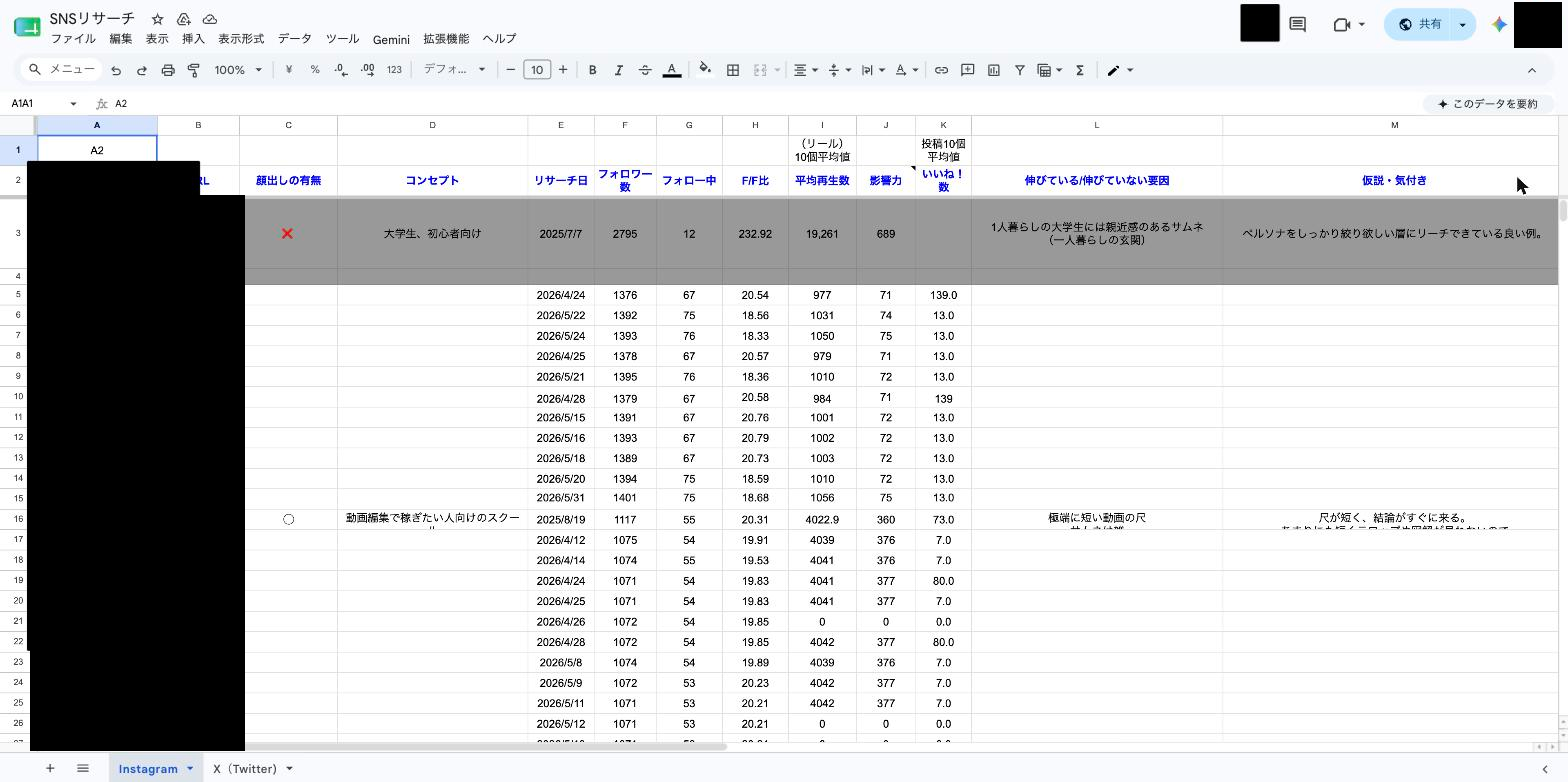
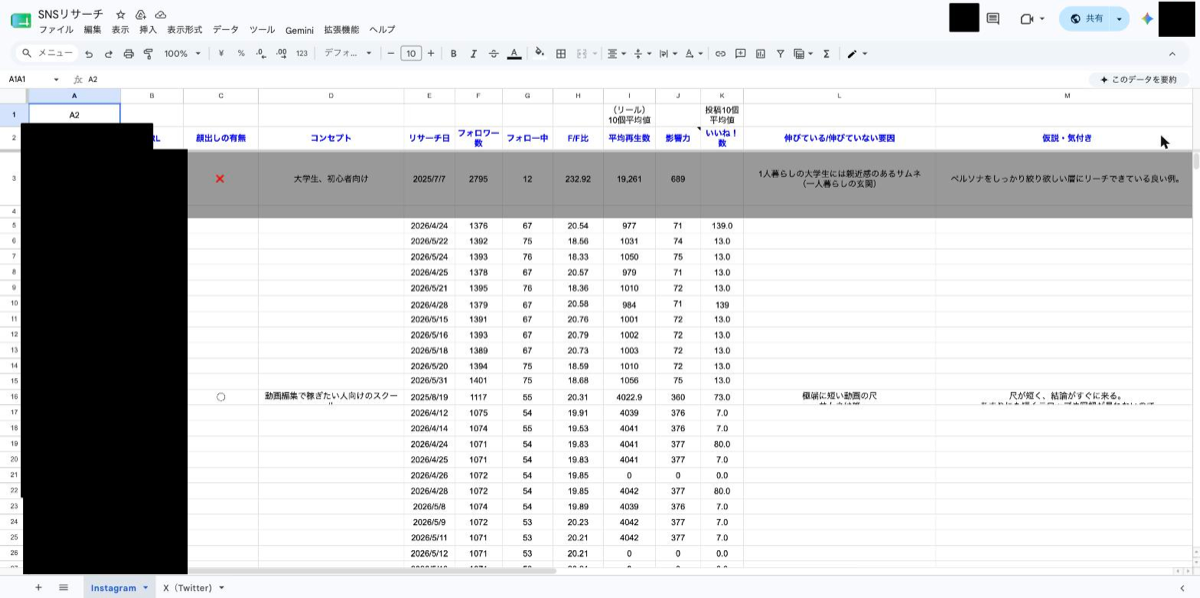
高度レビュー対応: CSP厳格化(XSS)・画像軽量化(perf)・JS可読性(単一責任+JSDoc型)
セキュリティ(XSS):
- CSPから'unsafe-inline'を除去。インラインscriptはSHA-256ハッシュ許可、style-srcは'self'のみに厳格化
- base-uri 'self' / form-action 'self' を追加（base注入・フォーム送信先を制限）
- 監査結果: フォーム無し(入力検証対象なし)・innerHTML不使用(textContentのみ)・全外部リンクにnoopener

パフォーマンス:
- 過大画像をリサイズ（puzzle 785→367KB 他、参照画像合計 2052→1493KB / -27%）
- 全img(16枚)に decoding=async を付与

可読性:
- main.jsを単一責任の名前付き関数(initFooterYear/initScrollFade)へ分割＋JSDoc型注釈（ビルド不要でTS相当の型補完を確保）
- JSキャッシュバスターを?v=20260621へ更新

Changed region(s): [[0.3392, 0.5418, 0.37, 0.5719], [0.3392, 0.4214, 0.37, 0.4515]]

diff --git a/js/main.js b/js/main.js
@@ -1,26 +1,47 @@
 /* =========================================================
-   翔啓 / Shokei — Portfolio interactions
+   大久保 翔啓 / Shokei — Portfolio interactions
+   ビルドなしの静的サイトのため、型は JSDoc で付与
+   （TypeScript 相当の補完・型チェックをエディタ上で得る）
    ========================================================= */
 (function () {
   "use strict";
 
-  /* Footer year */
-  var y = document.getElementById("year");
-  if (y) y.textContent = new Date().getFullYear();
+  /**
+   * フッターの著作権表記に現在の年を反映する。
+   * 対象要素（#year）が無ければ何もしない。
+   * @returns {void}
+   */
+  function initFooterYear() {
+    var el = document.getElementById("year");
+    if (el) el.textContent = String(new Date().getFullYear());
+  }
 
-  /* Fade-in on scroll */
-  var faders = document.querySelectorAll(".fade");
-  if ("IntersectionObserver" in window) {
-    var io = new IntersectionObserver(function (entries) {
+  /**
+   * スクロールに応じて `.fade` 要素を順次フェードインさせる。
+   * IntersectionObserver 非対応環境では全要素を即時表示にフォールバックする。
+   * @returns {void}
+   */
+  function initScrollFade() {
+    /** @type {NodeListOf<HTMLElement>} */
+    var faders = document.querySelectorAll(".fade");
+
+    // フォールバック：監視APIが無ければアニメーションせず即時表示
+    if (!("IntersectionObserver" in window)) {
+      faders.forEach(function (el) { el.classList.add("show"); });
+      return;
+    }
+
+    var observer = new IntersectionObserver(function (entries, obs) {
       entries.forEach(function (entry) {
-        if (entry.isIntersecting) {
-          entry.target.classList.add("show");
-          io.unobserve(entry.target);
-        }
+        if (!entry.isIntersecting) return;
+        entry.target.classList.add("show");
+        obs.unobserve(entry.target); // 一度表示したら監視解除（再発火を防ぐ）
       });
     }, { threshold: 0.12, rootMargin: "0px 0px -6% 0px" });
-    faders.forEach(function (el) { io.observe(el); });
-  } else {
-    faders.forEach(function (el) { el.classList.add("show"); });
+
+    faders.forEach(function (el) { observer.observe(el); });
   }
+
+  initFooterYear();
+  initScrollFade();
 })();

diff --git a/index.html b/index.html
@@ -5,7 +5,7 @@
   <meta name="viewport" content="width=device-width, initial-scale=1.0" />
   <title>大久保　翔啓 / Shokei — AI Development Portfolio</title>
   <meta name="description" content="AIといっしょに、めんどうな作業を「自動で動くしくみ」に変えています。データ分析・機械学習から運用自動化まで、実際に動く成果物をまとめた大久保翔啓のポートフォリオ。" />
-  <meta http-equiv="Content-Security-Policy" content="default-src 'self'; style-src 'self' 'unsafe-inline'; script-src 'self' 'unsafe-inline'; img-src 'self' data:; frame-ancestors 'none';" />
+  <meta http-equiv="Content-Security-Policy" content="default-src 'self'; style-src 'self'; script-src 'self' 'sha256-WZRJfWvsnNCPcxzZwvyhovnZGqhZaC+8gPGPRbx6wTk='; img-src 'self' data:; frame-ancestors 'none'; base-uri 'self'; form-action 'self';" />
   <meta name="robots" content="index, follow" />
   <meta name="theme-color" content="#fffaf4" />
 
@@ -46,16 +46,16 @@
   <!-- ===== HERO ===== -->
   <section id="top" class="hero-section">
     <div class="hero-bg" aria-hidden="true">
-      <div class="hero-tile t1"><img src="images/work-sns-sheet-real.png" alt="" width="400" height="300" /></div>
+      <div class="hero-tile t1"><img src="images/work-sns-sheet-real.png" alt="" width="400" height="300" decoding="async" /></div>
       <div class="hero-tile t2">📊</div>
-      <div class="hero-tile t3"><img src="images/work-titanic-score.png" alt="" width="400" height="300" /></div>
+      <div class="hero-tile t3"><img src="images/work-titanic-score.png" alt="" width="400" height="300" decoding="async" /></div>
       <div class="hero-tile t4">🤖</div>
-      <div class="hero-tile t5"><img src="images/work-shap.png" alt="" width="400" height="300" /></div>
+      <div class="hero-tile t5"><img src="images/work-shap.png" alt="" width="400" height="300" decoding="async" /></div>
       <div class="hero-tile t6">🔄</div>
       <div class="hero-tile t7">✨</div>
-      <div class="hero-tile t8"><img src="images/work-freee.png" alt="" width="400" height="300" /></div>
-      <div class="hero-tile t9"><img src="images/work-puzzle.png" alt="" width="400" height="300" /></div>
-      <div class="hero-tile t10"><img src="images/work-titanic-features.png" alt="" width="400" height="300" /></div>
+      <div class="hero-tile t8"><img src="images/work-freee.png" alt="" width="400" height="300" decoding="async" /></div>
+      <div class="hero-tile t9"><img src="images/work-puzzle.png" alt="" width="400" height="300" decoding="async" /></div>
+      <div class="hero-tile t10"><img src="images/work-titanic-features.png" alt="" width="400" height="300" decoding="async" /></div>
       <div class="hero-tile t11">⚙️</div>
       <div class="hero-tile t12">💡</div>
     </div>
@@ -107,7 +107,7 @@
     </div>
 
     <div class="feature-row fade">
-      <div class="feature-img fi1"><img src="images/work-sns-sheet-real.png" alt="競合リサーチを自動転記したスプレッドシート（アカウント名は黒塗り）" width="600" height="450" loading="lazy" /></div>
+      <div class="feature-img fi1"><img src="images/work-sns-sheet-real.png" alt="競合リサーチを自動転記したスプレッドシート（アカウント名は黒塗り）" width="600" height="450" decoding="async" loading="lazy" /></div>
       <div class="feature-text">
         <p class="num en">FEATURE 01</p>
         <h3>毎朝、競合リサーチを自動で</h3>
@@ -116,7 +116,7 @@
     </div>
 
     <div class="feature-row reverse fade">
-      <div class="feature-img fi2"><img src="images/work-shap.png" alt="動画の伸びを予測するAIのSHAP分析グラフ" width="600" height="450" loading="lazy" /></div>
+      <div class="feature-img fi2"><img src="images/work-shap.png" alt="動画の伸びを予測するAIのSHAP分析グラフ" width="600" height="450" decoding="async" loading="lazy" /></div>
       <div class="feature-text">
         <p class="num en">FEATURE 02</p>
         <h3>「伸びる動画」の条件を機械学習で分析</h3>
@@ -125,7 +125,7 @@
     </div>
 
     <div class="feature-row fade">
-      <div class="feature-img fi3"><img src="images/work-titanic-features.png" alt="タイタニック生存予測モデルの特徴量重要度と、性別・客室クラス別の生存率" width="600" height="450" loading="lazy" /></div>
+      <div class="feature-img fi3"><img src="images/work-titanic-features.png" alt="タイタニック生存予測モデルの特徴量重要度と、性別・客室クラス別の生存率" width="600" height="450" decoding="async" loading="lazy" /></div>
       <div class="feature-text">
         <p class="num en">FEATURE 03</p>
         <h3>機械学習の基礎を、手を動かして</h3>
@@ -134,7 +134,7 @@
     </div>
 
     <div class="feature-row reverse fade">
-      <div class="feature-img fi4"><img src="images/work-freee.png" alt="freee / MF会計と連携したAI仕訳自動化のデータフロー（個人情報はAIに送らない設計）" width="600" height="450" loading="lazy" /></div>
+      <div class="feature-img fi4"><img src="images/work-freee.png" alt="freee / MF会計と連携したAI仕訳自動化のデータフロー（個人情報はAIに送らない設計）" width="600" height="450" decoding="async" loading="lazy" /></div>
       <div class="feature-text">
         <p class="num en">FEATURE 04</p>
         <h3>会計freeeと連携、AIで仕訳を自動化</h3>
@@ -151,42 +151,42 @@
     </div>
     <div class="works-grid">
       <div class="work-card fade">
-        <img src="images/work-sns-sheet-real.png" alt="Instagram競合リサーチ自動化" width="400" height="400" loading="lazy" />
+        <img src="images/work-sns-sheet-real.png" alt="Instagram競合リサーチ自動化" width="400" height="400" decoding="async" loading="lazy" />
         <div class="overlay">
           <h4>Instagramのライバル調べを自動化</h4>
           <p>毎朝10アカウントを自動収集・スコア化<br />→ スプレッドシートへ自動転記</p>
         </div>
       </div>
       <div class="work-card fade">
-        <img src="images/work-shap.png" alt="伸びる動画をAIで分析" width="400" height="400" loading="lazy" />
+        <img src="images/work-shap.png" alt="伸びる動画をAIで分析" width="400" height="400" decoding="async" loading="lazy" />
         <div class="overlay">
           <h4>「伸びる動画」を機械学習で分析</h4>
           <p>機械学習・SHAP / 動画編集の特徴量<br />テンポ・字幕・つかみ・明るさが効く</p>
         </div>
       </div>
       <div class="work-card fade">
-        <img src="images/work-titanic-features.png" alt="タイタニックの特徴量重要度と性別・客室クラス別の生存率" width="400" height="400" loading="lazy" />
+        <img src="images/work-titanic-features.png" alt="タイタニックの特徴量重要度と性別・客室クラス別の生存率" width="400" height="400" decoding="async" loading="lazy" />
         <div class="overlay">
           <h4>タイタニック:生存率の可視化</h4>
           <p>特徴量の重要度・EDA<br />性別・客室クラス別の生存率</p>
         </div>
       </div>
       <div class="work-card fade">
-        <img src="images/work-titanic-score.png" alt="AIで生き残りを予測（交差検証0.843・本番LB0.763）" width="400" height="400" loading="lazy" />
+        <img src="images/work-titanic-score.png" alt="AIで生き残りを予測（交差検証0.843・本番LB0.763）" width="400" height="400" decoding="async" loading="lazy" />
         <div class="overlay">
           <h4>AIで生き残りを予測</h4>
           <p>scikit-learn / ランダムフォレスト<br />交差検証0.843・本番LB0.763</p>
         </div>
       </div>
       <div class="work-card fade">
-        <img src="images/work-puzzle.png" alt="自作のぷよぷよ風パズルゲーム" width="400" height="400" loading="lazy" />
+        <img src="images/work-puzzle.png" alt="自作のぷよぷよ風パズルゲーム" width="400" height="400" decoding="async" loading="lazy" />
         <div class="overlay">
           <h4>ぷよぷよ風パズルゲーム</h4>
           <p>ブラウザで動くゲームを自作<br />連鎖・スコア・レベル・NEXT実装</p>
         </div>
       </div>
       <div class="work-card fade">
-        <img src="images/work-freee-sq.png" alt="freeeと連携したAI仕訳自動化システム" width="400" height="400" loading="lazy" />
+        <img src="images/work-freee-sq.png" alt="freeeと連携したAI仕訳自動化システム" width="400" height="400" decoding="async" loading="lazy" />
         <div class="overlay">
           <h4>会計freee連携・AI仕訳自動化</h4>
           <p>Claude APIで勘定科目を判定<br />個人情報を送らない安全設計</p>
@@ -235,6 +235,6 @@
     <p class="copy en">© <span id="year"></span> 大久保　翔啓 — AI Development Portfolio</p>
   </footer>
 
-  <script src="js/main.js?v=20260614"></script>
+  <script src="js/main.js?v=20260621"></script>
 </body>
 </html>